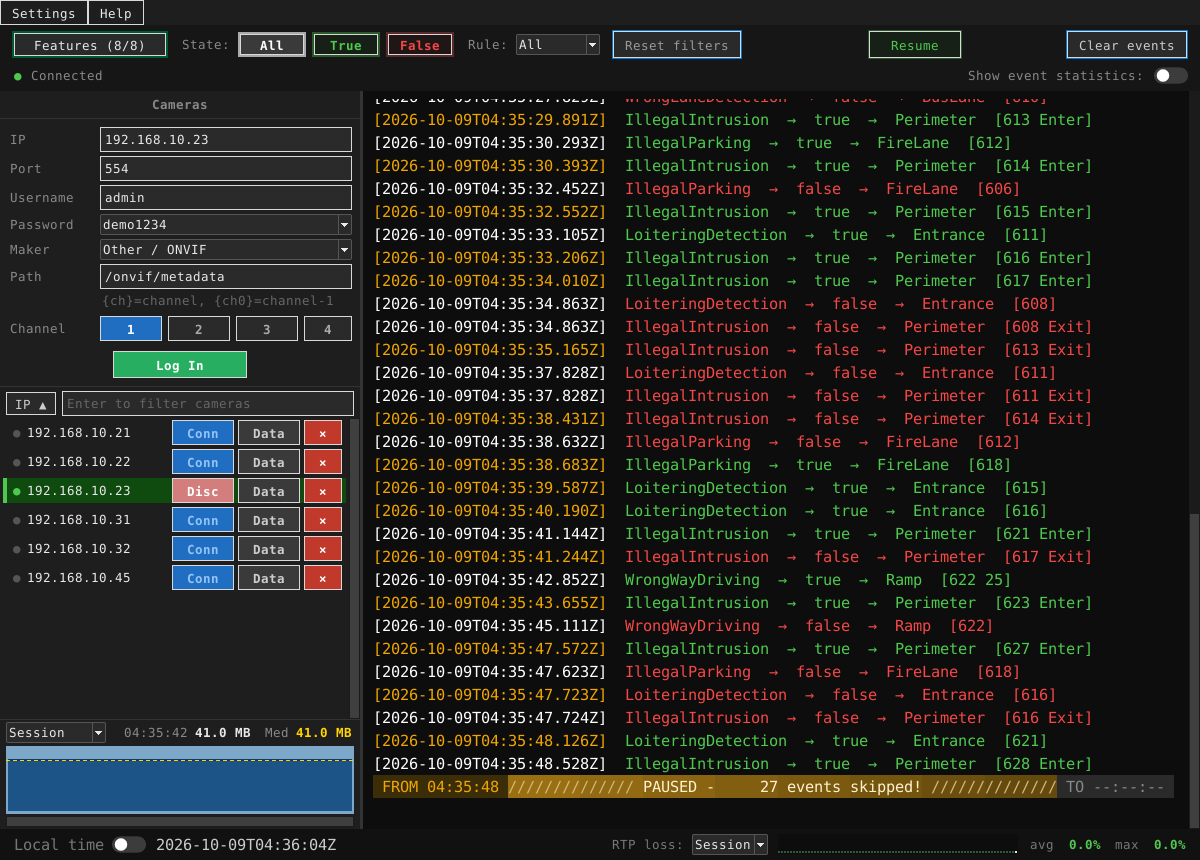
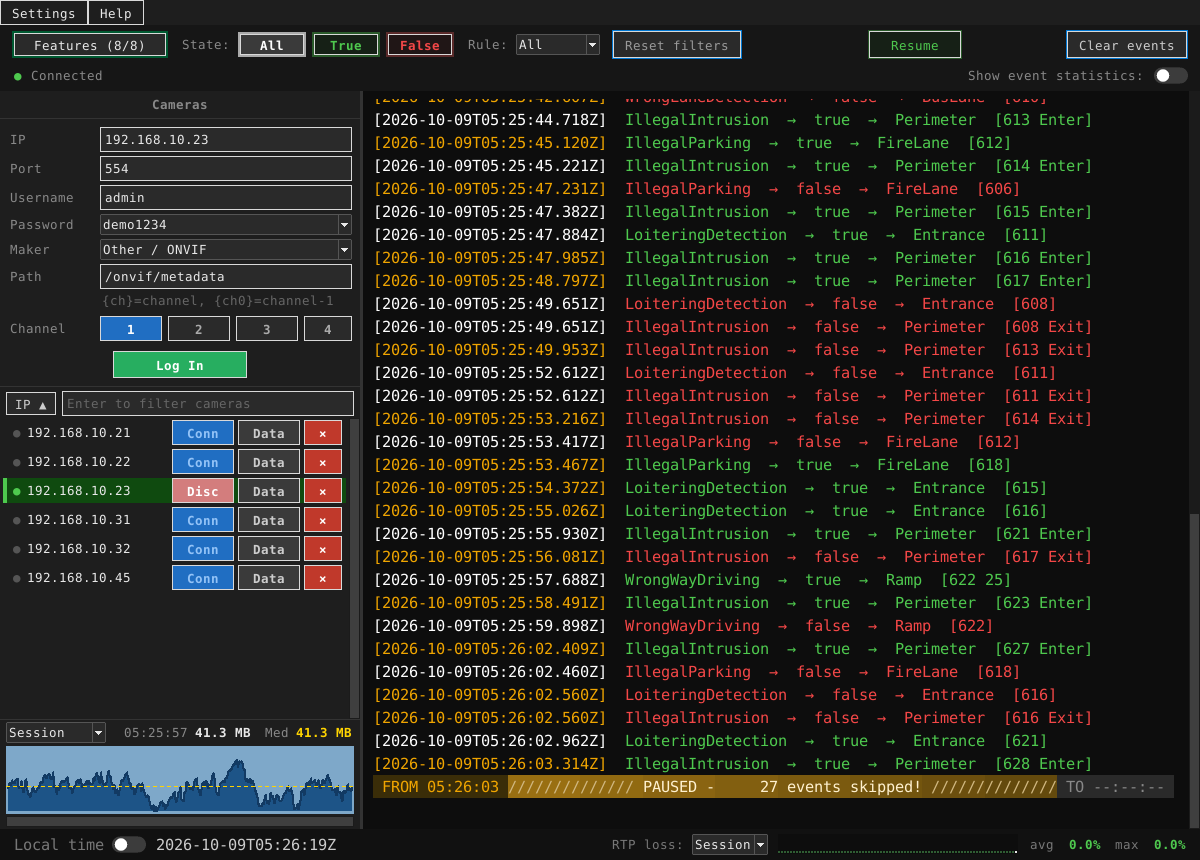
Memory chart drawn from its values (it showed a flat line); 'Session time'

Changed region(s): [[0.0, 0.1209, 0.5242, 0.9372], [0.2158, 0.9674, 0.2775, 0.9977]]

diff --git a/index.html b/index.html
@@ -339,7 +339,7 @@ const DEMO_VIDEO = "media/demo.mp4";
 const DEMO_POSTER = "media/demo.jpg";
 // The screenshots' revision: tools/demo_screenshots.py sets it when it saves new
 // ones, so browsers and the Pages CDN fetch them again instead of a cached copy.
-const MEDIA_REV = "202610090436";
+const MEDIA_REV = "202610090526";
 const SCREENSHOTS = [
   ["media/screenshot-1.png", "Main window after 30 hours: cameras, live event log, memory and RTP loss"],
   ["media/screenshot-2.png", "Choose the camera's maker: the path of its metadata stream is filled in"],
